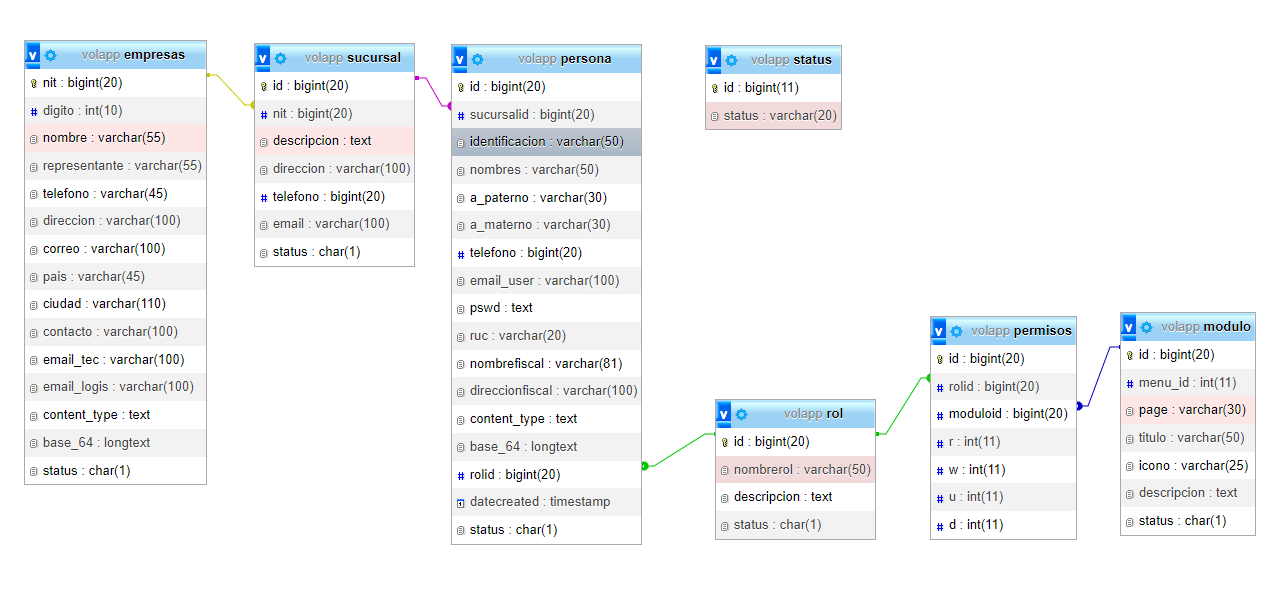
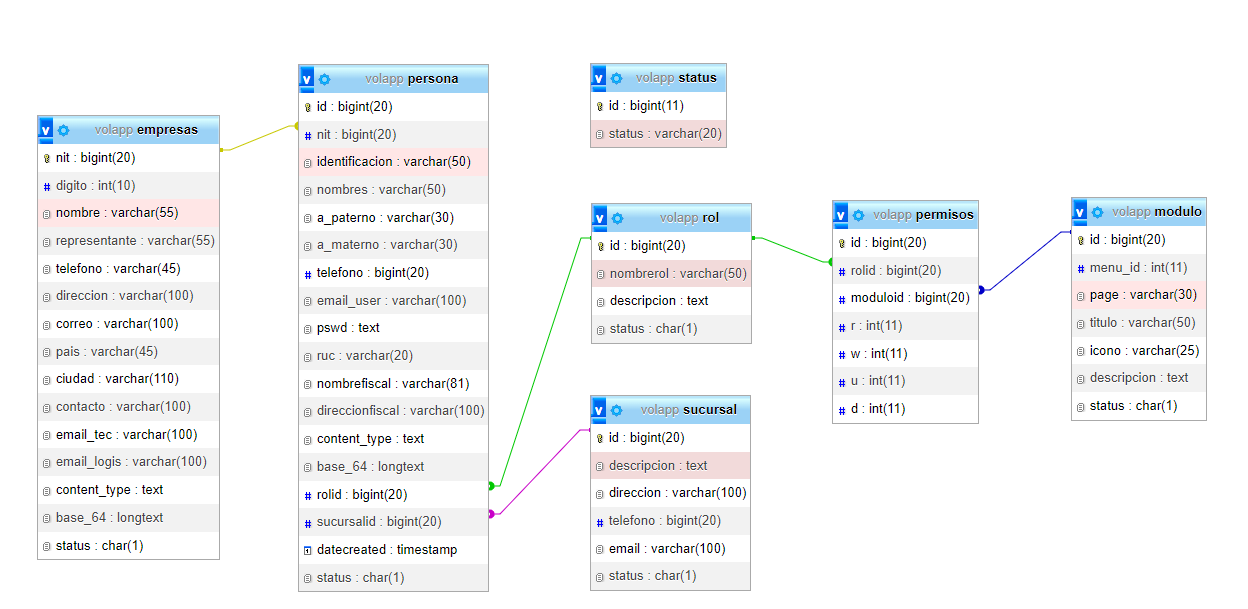
bd corregida por sucursales

diff --git a/public/js/loginAsync.js b/public/js/loginAsync.js
@@ -31,7 +31,7 @@ function login(form) {
       beforeSend: function () {
         var html = "";
         html +=
-          '<button class="btn btn-success rounded-pill" type="button" disabled>' +
+          '<button class="btn btn-primary rounded-pill" type="button" disabled>' +
           '<span class="spinner-grow spinner-grow-sm" role="status" aria-hidden="true"></span>Iniciando Sesión</button>';
 
         $("#spinnerLogin").html(html);
